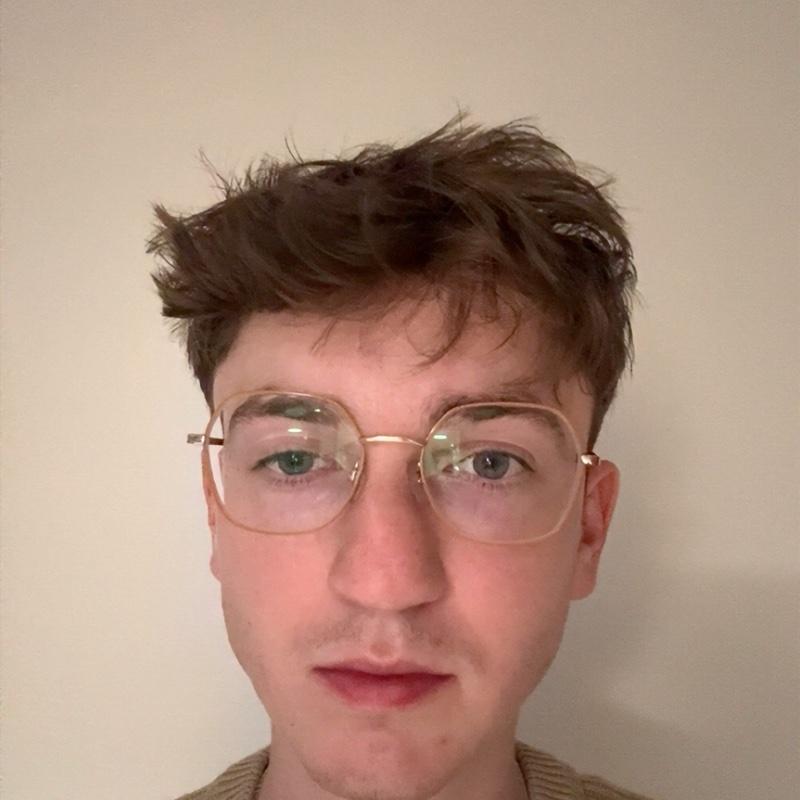
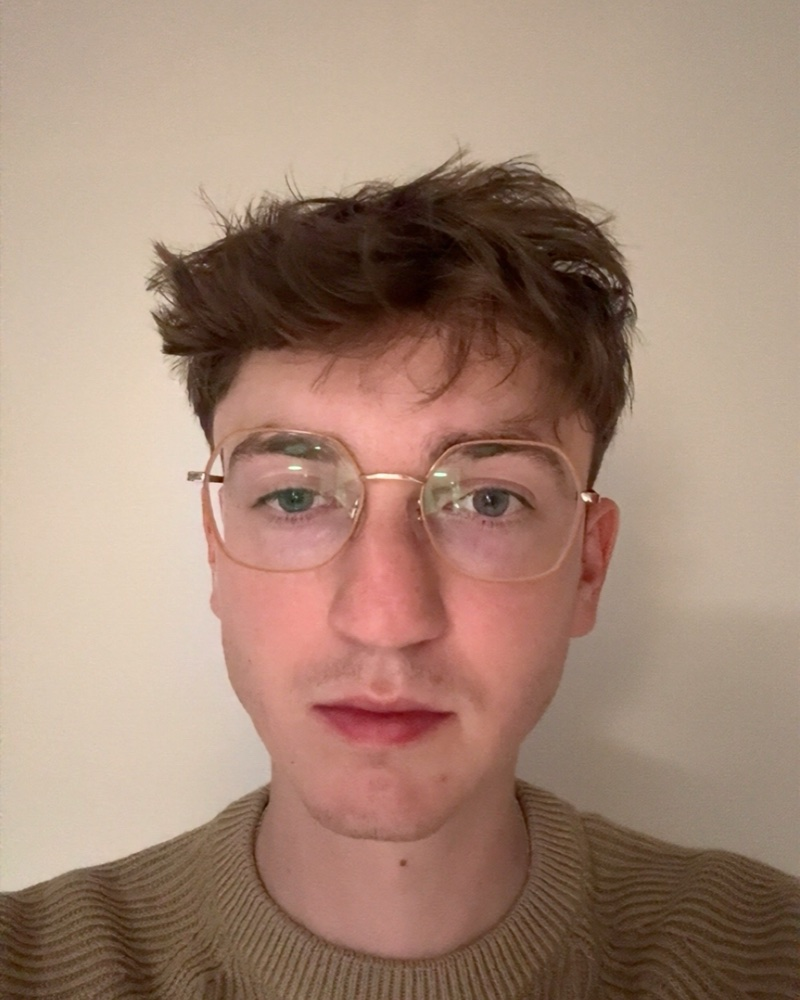
Reframe the photo 4:5 with room to breathe
The face spans ~83% of the widest square crop of the source portrait,
so every square framing pinned either the chin or the hair to an edge.
The crop and the About frame both move to 4:5: headroom above the
hair, chin well off the bottom, sweater in shot. The uncropped
original stays at photo-original.jpeg, gitignored, so recrops don't
need the file re-supplied.

diff --git a/app/about/page.tsx b/app/about/page.tsx
@@ -80,7 +80,10 @@ function AboutHero() {
               {/* The photo stays natural — the CRT duotone suited the old
                   placeholder avatar but read as a green filter on a real
                   face (Jack's call, 16 Aug 2026). The frame does the tying-in. */}
-              <div className="relative w-64 h-64 md:w-72 md:h-72 rounded-md border border-border overflow-hidden glow-border">
+              {/* 4:5 rather than square — the source portrait's face fills
+                  ~83% of the widest square crop, so a square frame is always
+                  tight at the chin or the hair. */}
+              <div className="relative w-64 aspect-[4/5] md:w-72 rounded-md border border-border overflow-hidden glow-border">
                 <Image
                   src="/jack-photo.jpg"
                   alt="Jack Devlin"
